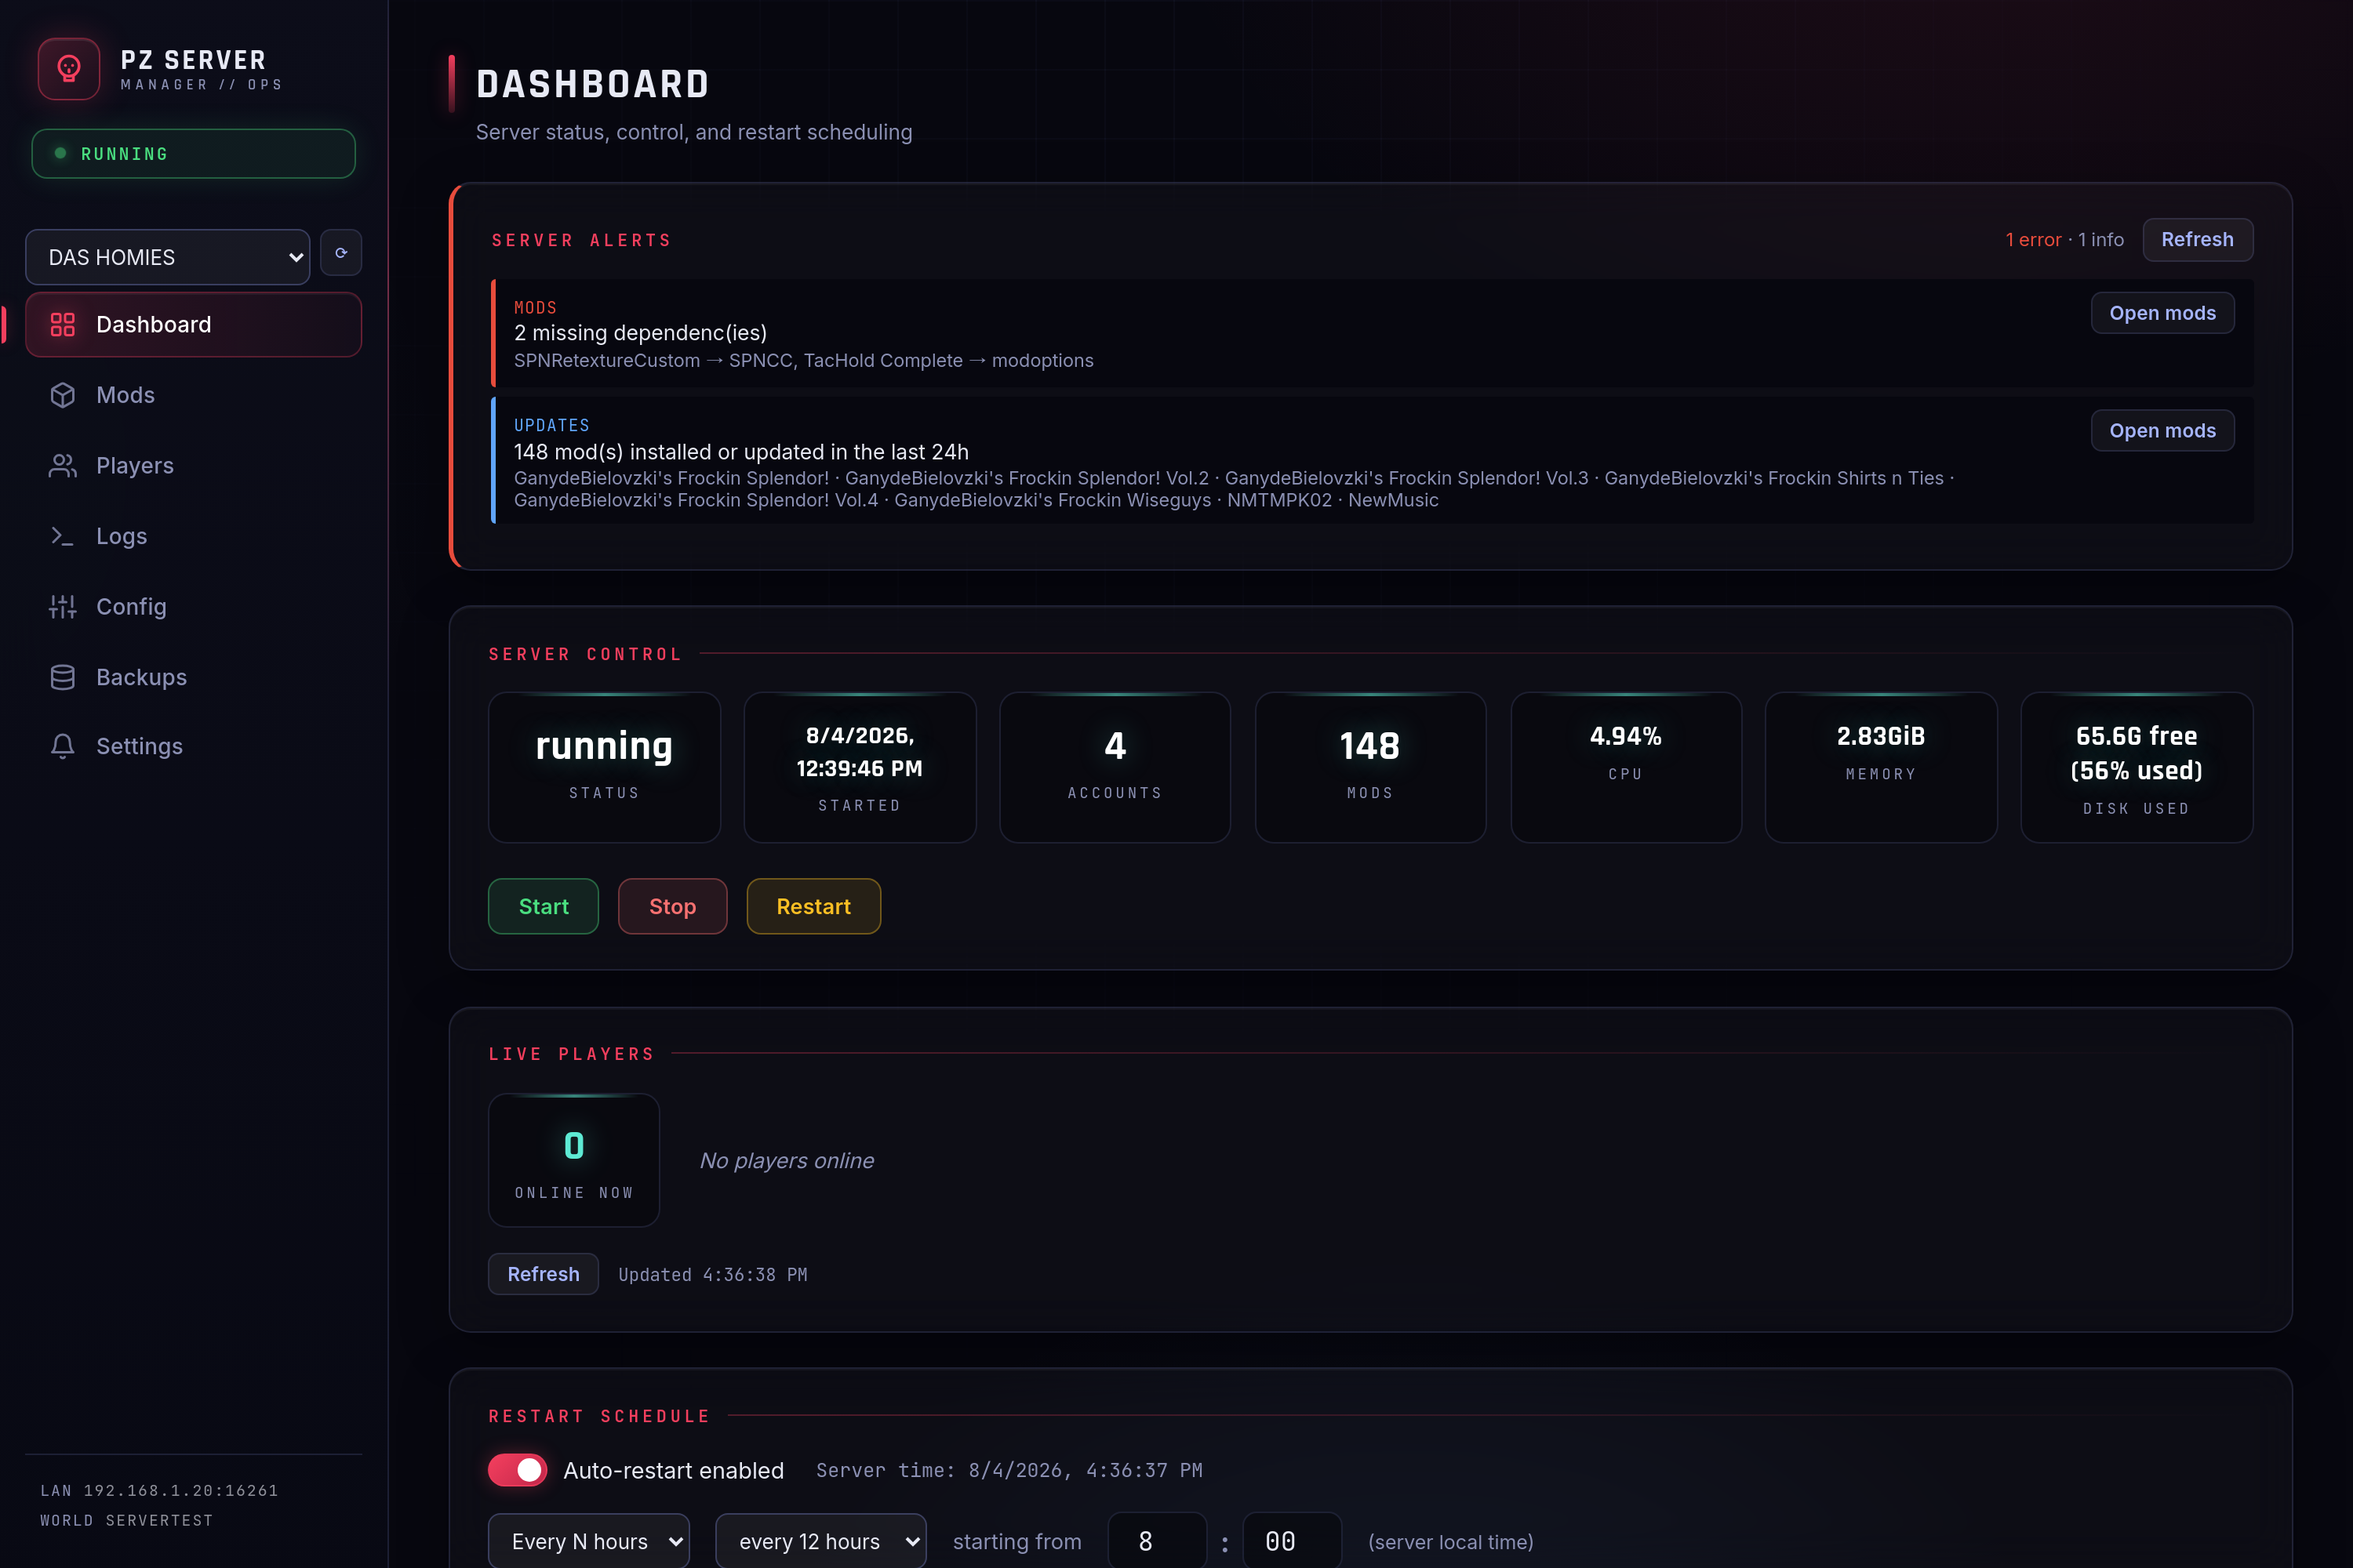
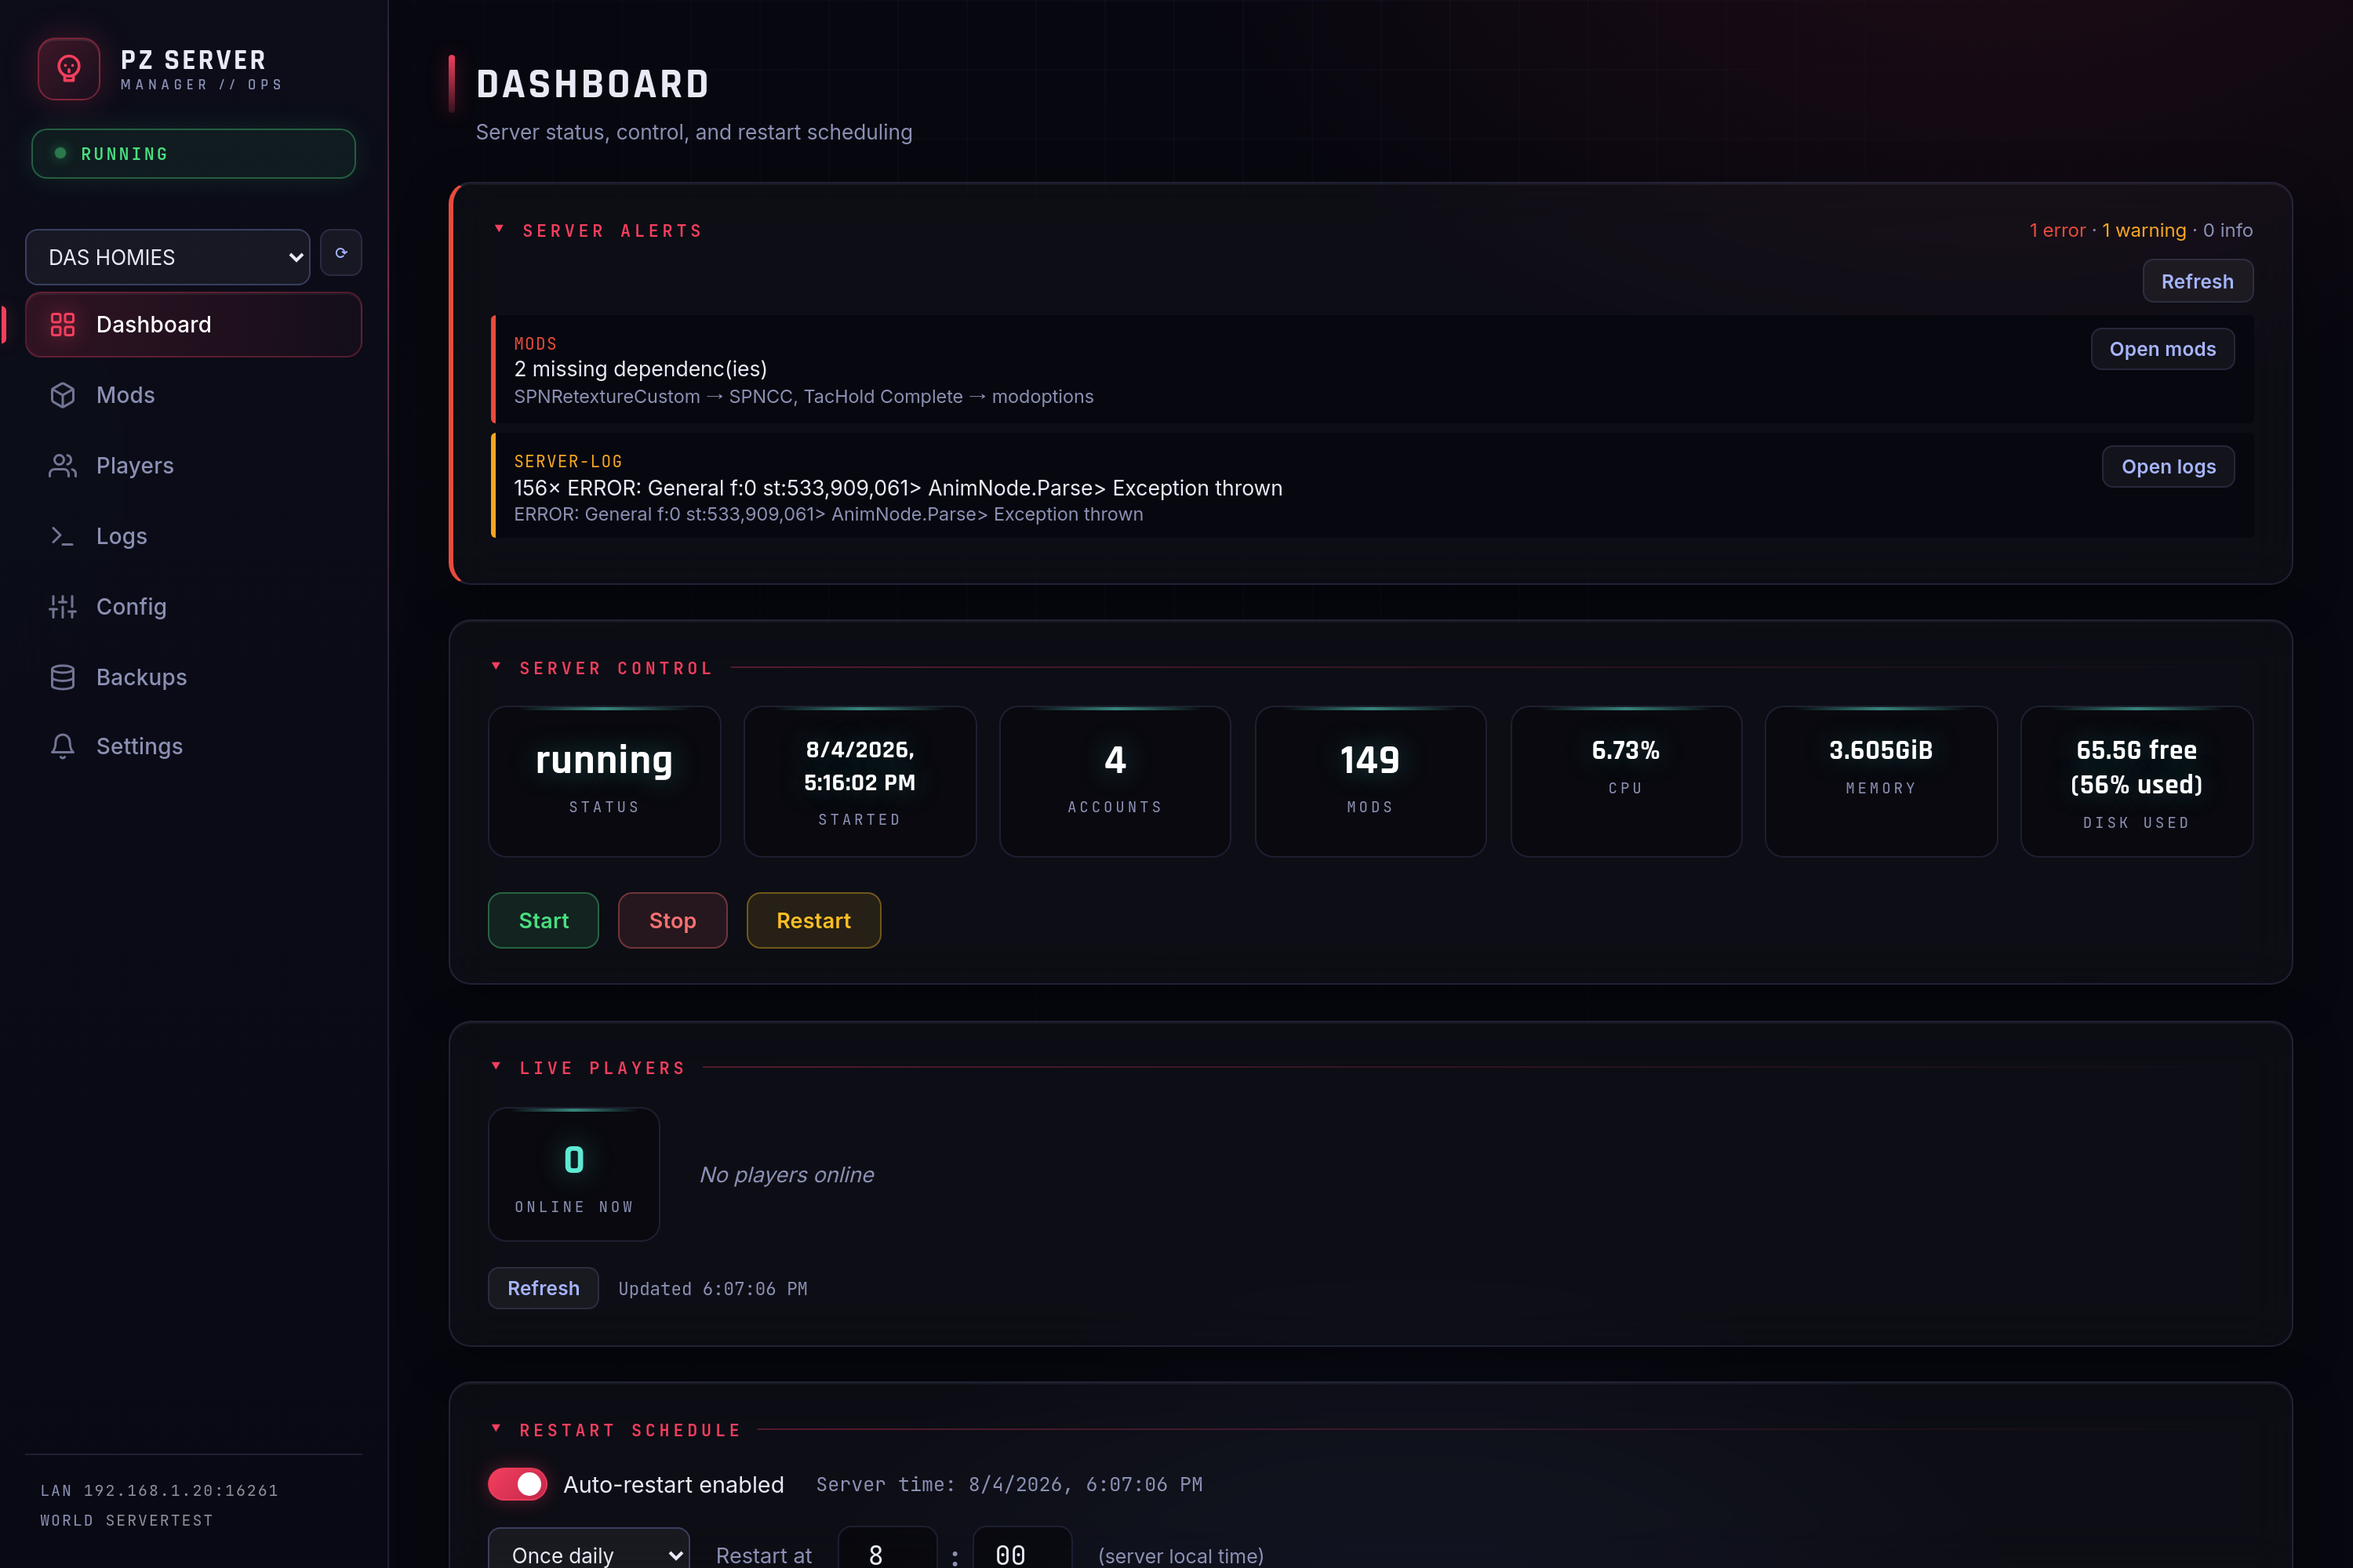
refactor: bold-key Discord lines, and refresh the screenshots
Discord embed fields always render the field name on its own line above the
value. The card is now a description of "**Key** : value" lines instead, so
the label and its value sit together:

  **Status** : 🟢 Online
  **Players** : 0 / 32
  **Connect** : `137.103.3.116:16261`
  **Mod Collection** : [DAS HOMIES - Server Collection](…)

Screenshots retaken against the current UI: collapse carets now sit inline
before each title, every card is collapsible, the mods table carries the
load order column, and the Logs tab shows both panes with the manager log
scrolling like the server log. A Settings shot is added showing the mod
auto-update controls.

The logs screenshot is filtered to "Saving" rather than "Mod" — the latter
matched nothing in an idle server's recent tail, so the pane rendered empty
and looked broken. The capture still asserts no SteamID64 or client
connection id is present before writing the file.

diff --git a/server.js b/server.js
@@ -499,9 +499,8 @@ function updateDiscordStatus(cb) {
       function sendCard(versions) {
         let body
         if (cfg.discord.richCard) {
-          // One embed per server with inline fields. Discord lays inline fields out three to a
-          // row, which is the only thing in an embed that actually aligns into columns —
-          // markdown tables are not rendered, and a code block would kill the collection link.
+          // One embed per server, its description a list of "**Key** : value" lines. Embed fields
+          // were tried first but always render the name on its own line above the value.
           const embeds = []
           for (const s of servers) {
             const st = states[s.container] || {}
@@ -521,26 +520,29 @@ function updateDiscordStatus(cb) {
             const players = isOnline ? onlinePlayersFor(s) : []
             const version = versions[s.id]
 
-            const fields = [
-              { name: 'Status', value: isOnline ? '🟢 Online' : '🔴 Offline', inline: true },
-              { name: 'Players', value: '**' + players.length + '**' + (maxPlayers ? ' / ' + maxPlayers : ''), inline: true },
-              { name: 'Uptime', value: isOnline ? uptime : '—', inline: true },
-              { name: 'Connect', value: (externalIp && port) ? '`' + externalIp + ':' + port + '`' : '—', inline: true },
-              { name: 'Mods', value: modCount, inline: true },
-              { name: 'Version', value: version ? '`' + version + '`' : '—', inline: true }
+            // "**Key** : value" on one line each. Embed fields put the name on its own line above
+            // the value, which is what this replaces.
+            const row = (k, v) => '**' + k + '** : ' + v
+            const lines = [
+              row('Status', isOnline ? '🟢 Online' : '🔴 Offline'),
+              row('Players', players.length + (maxPlayers ? ' / ' + maxPlayers : '')),
+              row('Uptime', isOnline ? uptime : '—'),
+              row('Connect', (externalIp && port) ? '`' + externalIp + ':' + port + '`' : '—'),
+              row('Mods', modCount),
+              row('Version', version ? '`' + version + '`' : '—')
             ]
             if (players.length) {
-              fields.push({ name: 'Online now', value: players.slice(0, 20).join(', ') + (players.length > 20 ? ', …' : ''), inline: false })
+              lines.push(row('Online now', players.slice(0, 20).join(', ') + (players.length > 20 ? ', …' : '')))
             }
             // Tracked collections, so people can subscribe to the server's mod list from Discord
             // rather than being sent a list of Workshop ids.
             const collLinks = collectionLinks(s)
-            if (collLinks) fields.push({ name: 'Mod Collection', value: collLinks, inline: false })
+            if (collLinks) lines.push(row('Mod Collection', collLinks))
 
             embeds.push({
               title: serverLabel(s),
               color: isOnline ? 5763719 : 15548997,
-              fields
+              description: lines.join('\n')
             })
           }
           // Discord shows the timestamp under the last embed only, so it goes there.
